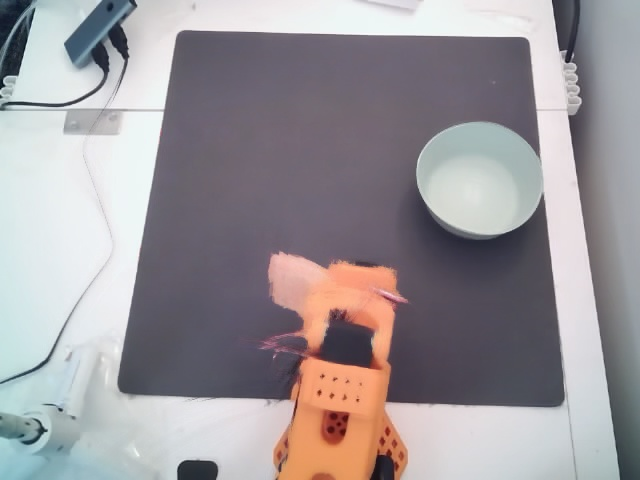
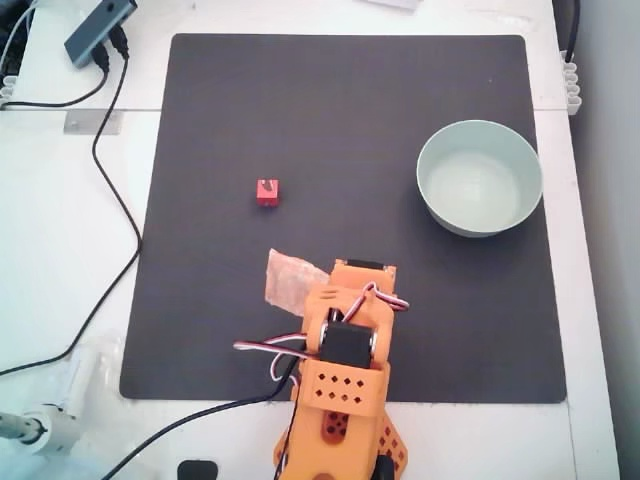
Camera check: arm in the dataset frame's pose, compared arm included
The reference is now one recorded frame (SIMCUBE_1O1B_VF episode 10, frame 0: the
start pose closest to the median) with its arm pose. Check camera moves the arm to
that pose (correcting the servos' remaining error, up to 3 times, to within 1.5 deg)
and compares the live image with the frame, arm included. Captures are still lined up
with the frame automatically (arm masked there, as it stands at Home).

diff --git a/web/app.js b/web/app.js
@@ -191,13 +191,24 @@ async function runAll(){
  finally{state.runAll=false;updateControls();}}
 $('#run-all').onclick=runAll;
 async function calibrateCamera(){
- // No robot motion: the live top image is compared with the recorded dataset's view.
- // Every capture is warped onto that view automatically when the camera has moved.
- const button=$('#calibrate-camera');button.disabled=true;
- try{const r=await api('/api/camera/check',{});
-  const text=r.moved_px==null?'Camera check: '+(r.note||'could not compare with the dataset view'):r.moved_px<=1?`Camera matches the dataset view (${r.moved_px.toFixed(1)} px)`:r.moved_px<=25?`Camera moved ${r.moved_px.toFixed(1)} px (turn ${r.turn_deg.toFixed(2)}°) from the dataset view · captures are lined up with it automatically`:`Camera moved ${r.moved_px.toFixed(0)} px from the dataset view · put it back where it was`;
-  $('#run-all-status').textContent=text;event(text);}
- catch(e){toast(e.message,true);}finally{updateControls();}}
+ // Move the arm to the pose of the dataset reference frame, then compare the live top
+ // image with that frame (arm included). Every capture is also lined up with the
+ // dataset view automatically when the camera has moved.
+ if(state.runAll||state.busy||state.robot.running)return;state.runAll=true;updateControls();
+ const say=t=>{$('#run-all-status').textContent=t;event(t);};
+ try{say('Camera check · moving the arm to the dataset frame pose · Esc or Stop motion halts it');
+  let r=null;
+  for(let attempt=0;attempt<4&&!r;attempt++){
+   await api('/api/camera/pose',{correct:attempt>0});const started=Date.now();
+   while(true){await new Promise(r=>setTimeout(r,500));if(!state.runAll)throw new Error('Stopped');const robot=(await api('/api/status')).robot;state.robot=robot;updateControls();
+    if(robot.error&&!robot.running)throw new Error('Move stopped: '+robot.error);if(!robot.running&&Date.now()-started>800)break;if(Date.now()-started>30000)throw new Error('The move took too long');}
+   await new Promise(r=>setTimeout(r,600));
+   say('Camera check · comparing the top camera with the dataset frame');
+   try{r=await api('/api/camera/check',{});}catch(e){if(!/from the dataset frame pose/.test(e.message)||attempt===3)throw e;say('Camera check · '+e.message+' · correcting the pose');}}
+  const text=r.moved_px==null?'Camera check: '+(r.note||'could not compare with the dataset frame'):r.moved_px<=1?`Camera matches dataset episode ${r.episode} (${r.moved_px.toFixed(1)} px, arm pose within ${r.pose_error_deg.toFixed(1)}°)`:r.moved_px<=25?`Camera moved ${r.moved_px.toFixed(1)} px (turn ${r.turn_deg.toFixed(2)}°) from dataset episode ${r.episode} · captures are lined up with it automatically`:`Camera moved ${r.moved_px.toFixed(0)} px from the dataset frame · put it back where it was`;
+  say(text);}
+ catch(e){if(e.message!=='Stopped')toast(e.message,true);$('#run-all-status').textContent='Camera check stopped: '+e.message;}
+ finally{state.runAll=false;updateControls();}}
 $('#calibrate-camera').onclick=calibrateCamera;
 async function poll(){if(state.restarting)return;try{const status=await api('/api/status');state.robot=status.robot;state.activeCapture=status.current;if(state.mode==='live'&&!state.capture)$('#real-label').textContent='LIVE CAMERA';if(state.robot.running&&state.mode==='live'&&state.capture?.id===state.robot.execution&&state.plan?.video){$('#real-label').textContent='LIVE ROBOT';video.playbackRate=1;$('#speed').value='1';if(Math.abs(video.currentTime-state.robot.elapsed)>.2)video.currentTime=state.robot.elapsed;if(video.paused&&playback.ready)video.play().catch(()=>{});playbackLabel('Live robot / sim clock');}$('#connection').className='status'+(state.robot.connected?' connected':'');$('#connection').innerHTML=`<i></i>${state.robot.running?'Executing motion':state.robot.connected?(state.robot.torque_enabled===false?'Torque off · arm free':state.robot.torque_enabled===true?'SO-101 connected':'Torque state unknown'):'Robot offline'}`;const job=status.job;if(job?.status==='running'||job?.status==='recording'){state.busy=true;$('#step-'+job.stage).classList.add('busy');}else if(job&&['complete','error'].includes(job.status)){const key=job.id+job.stage+job.status;if(state.lastJob!==key){state.lastJob=key;refreshRuns().catch(()=>{});state.busy=false;$$('.step.busy').forEach(e=>e.classList.remove('busy'));if(job.status==='error'){if(state.page==='new')toast(job.error,true);}else if(job.stage==='prepare'&&state.page==='new'){state.busy=false;event(job.plan.execution?.completed?'Home reached · camera view clear · capture a new scene':'Home stopped · '+(job.plan.execution?.error||'motion interrupted'));}else if(state.capture?.id===job.id){await showPlan(job.plan);event(job.stage==='execute'?`Hardware ${job.plan.execution?.completed?'completed':'stopped'} · synchronized real/sim recording ready`:job.stage==='plan'?`IK plan ready · ${job.plan.frames} actions`:`Physics result: ${pretty(job.plan.outcome)} · ${job.plan.transfer_checks_passed?'transfer checks passed':'transfer checks blocked execution'}`);}}}if(state.robot.error&&state.robot.error!==state.robot.lastError&&state.robot.error!==state.lastRobotError){state.lastRobotError=state.robot.error;toast(state.robot.error,true);}updateControls();}catch(e){$('#connection').innerHTML='<i></i>Server unavailable';state.robot={connected:false};updateControls();}setTimeout(poll,1000);}
 async function livePreview(){if(state.restarting)return;if(state.page==='new'&&state.mode==='live'&&(!state.capture||(state.capture.id===state.activeCapture&&(state.robot.running||(state.plan?.executed&&!state.plan?.execution?.video))))&&state.robot.connected&&!liveBusy){liveBusy=true;try{const view=state.view,id=state.capture?.id;const frame=await image('/api/live/'+view+'?t='+Date.now());if(state.page==='new'&&state.mode==='live'&&state.view===view&&state.capture?.id===id&&(!state.capture||(state.capture.id===state.activeCapture&&(state.robot.running||(state.plan?.executed&&!state.plan?.execution?.video))))){realImage=frame;draw();}}catch{}finally{liveBusy=false;}}setTimeout(livePreview,150);}

diff --git a/scripts/top_camera.py b/scripts/top_camera.py
@@ -3,11 +3,14 @@
 The top camera's pose was calibrated on the recorded dataset; every pixel-to-robot
 conversion uses that calibration. If the camera is bumped, the live image no longer
 lines up with it. Each live capture is therefore compared with the dataset's view of
-the static scene (median of episode start frames: no objects, no moving arm) using
-ORB features outside the mat and away from the arm, and a similarity transform
+the static scene (the first frame of a recorded episode) using ORB features outside
+the mat and away from the arm, and a similarity transform
 (shift, small turn, scale). If the view moved, the capture is warped back onto the
 dataset view before anything else reads it; the original is kept as top-raw.jpg.
 Views that cannot be matched, or moved too far to trust a warp, block planning.
+
+Check camera: the robot first moves to that dataset frame's arm pose, so the arm is
+part of the comparison too (same pose, same place in the image).
 """
 import json
 import time
@@ -19,6 +22,8 @@ from scipy.spatial.transform import Rotation
 
 ROOT = Path(__file__).resolve().parents[1]
 REFERENCE = ROOT / 'calibration/top-camera-dataset-reference.jpg'
+REFERENCE_POSE = ROOT / 'calibration/top-camera-dataset-reference.json'
+POSE_TOLERANCE_DEG = 1.5
 ALIGN_FROM_PX = 1.     # smaller shifts are left as they are (sub-pixel noise)
 MAX_WARP_PX = 25.      # larger moves: the camera must be put back
 MIN_INLIERS = 30
@@ -40,46 +45,55 @@ def project(camera, points):
     return np.c_[focal * p[:, 0] / p[:, 2] + 320, focal * p[:, 1] / p[:, 2] + 240]
 
 
-def reference(dataset=None, every=3):
-    """Dataset view of the static scene, built once from the recorded episodes."""
-    if REFERENCE.exists():
+def reference(dataset=None):
+    """The dataset frame the live camera is compared with: the first top-camera frame
+    of the episode whose starting arm pose is closest to the typical (median) start,
+    together with that arm pose. Built once from SIMCUBE_1O1B_VF."""
+    if REFERENCE.exists() and REFERENCE_POSE.exists():
         return cv2.imread(str(REFERENCE))
     from dataset_to_sim.dataset import DatasetIndex
     from episode0 import DATA
-    index = DatasetIndex(Path(dataset) if dataset else DATA); frames = []
-    for episode in range(0, index.episode_count, every):
-        part = index.episode(episode).video_slices['top']
-        capture = cv2.VideoCapture(str(part.path)); capture.set(cv2.CAP_PROP_POS_FRAMES, round(part.start_time * 30))
-        ok, image = capture.read(); capture.release()
-        if ok:
-            frames.append(image)
-    if len(frames) < 5:
+    index = DatasetIndex(Path(dataset) if dataset else DATA)
+    starts = np.array([index.episode(i).state_deg[0] for i in range(index.episode_count)])
+    episode = int(np.argmin(np.abs(starts - np.median(starts, axis=0)).max(axis=1)))
+    part = index.episode(episode).video_slices['top']
+    capture = cv2.VideoCapture(str(part.path)); capture.set(cv2.CAP_PROP_POS_FRAMES, round(part.start_time * 30))
+    ok, image = capture.read(); capture.release()
+    if not ok:
         raise ValueError('Could not read the recorded dataset to build the camera reference')
-    image = np.median(np.stack(frames), axis=0).astype(np.uint8)
     REFERENCE.parent.mkdir(parents=True, exist_ok=True); cv2.imwrite(str(REFERENCE), image)
+    REFERENCE_POSE.write_text(json.dumps({'dataset': str(index.root) if hasattr(index, 'root') else str(DATA), 'episode': episode, 'frame': 0,
+                                          'state_native': starts[episode].tolist()}, indent=2))
     return image
 
 
-def _static_mask(config, image):
-    """Pixels of the fixed scene: outside the mat (objects move there) and not the arm."""
+def reference_pose():
+    reference()
+    return json.loads(REFERENCE_POSE.read_text())
+
+
+def _static_mask(config, image, arm=False):
+    """Pixels of the fixed scene: outside the mat (objects move there) and, unless the
+    arm stands in the dataset frame's pose (`arm`), not the arm."""
     camera = config['base_calibration']['cameras']['top']; mat = config['base_calibration']['world']['mat']
     half = np.asarray(mat['size'][:2]) / 2 + .03; c = np.asarray(mat['position'][:2])
     corners = project(camera, [[c[0] + sx * half[0], c[1] + sy * half[1], 0.] for sx, sy in ((-1, -1), (1, -1), (1, 1), (-1, 1))])
     mask = np.full(image.shape[:2], 255, np.uint8)
     cv2.fillPoly(mask, [corners.astype(np.int32)], 0)
-    orange = cv2.inRange(cv2.cvtColor(image, cv2.COLOR_BGR2HSV), (5, 120, 120), (22, 255, 255))
-    mask[cv2.dilate(orange, np.ones((25, 25), np.uint8)) > 0] = 0
+    if not arm:
+        orange = cv2.inRange(cv2.cvtColor(image, cv2.COLOR_BGR2HSV), (5, 120, 120), (22, 255, 255))
+        mask[cv2.dilate(orange, np.ones((25, 25), np.uint8)) > 0] = 0
     return mask
 
 
-def measure(image, config=None):
+def measure(image, config=None, arm=False):
     """Similarity transform from the dataset view to `image`, and how far points on
     the mat moved (pixels)."""
     config = config or base_config()
     ref = reference()
     orb = cv2.ORB_create(3000)
-    k1, d1 = orb.detectAndCompute(cv2.cvtColor(ref, cv2.COLOR_BGR2GRAY), _static_mask(config, ref))
-    k2, d2 = orb.detectAndCompute(cv2.cvtColor(image, cv2.COLOR_BGR2GRAY), _static_mask(config, image))
+    k1, d1 = orb.detectAndCompute(cv2.cvtColor(ref, cv2.COLOR_BGR2GRAY), _static_mask(config, ref, arm))
+    k2, d2 = orb.detectAndCompute(cv2.cvtColor(image, cv2.COLOR_BGR2GRAY), _static_mask(config, image, arm))
     if d1 is None or d2 is None:
         return None, {'ok': False, 'moved_px': None, 'note': 'Too little texture around the mat to compare with the dataset view'}
     pairs = cv2.BFMatcher(cv2.NORM_HAMMING).knnMatch(d1, d2, k=2)

diff --git a/scripts/studio_server.py b/scripts/studio_server.py
@@ -745,15 +745,47 @@ def select_object(identifier:str,body:dict):
         return selection
 
 
+@app.post('/api/camera/pose')
+def camera_pose(request:Request,body:dict|None=None):
+    """Move the arm straight to the arm pose of the dataset reference frame (a rest pose
+    next to Home), so the camera check compares like with like."""
+    global current
+    from top_camera import reference_pose
+    if not request.headers.get('x-studio-client'):raise ValueError('Moving the arm requires an owning control page')
+    with operation_lock:
+        if restarting:raise ValueError('Server restarting')
+        if dataset_build_busy():raise ValueError('Finish or cancel data generation before moving the robot')
+        if current and jobs.get(current,{}).get('status')=='running':raise ValueError('Wait for the current operation')
+        if hardware.call('status').get('running'):raise ValueError('Robot is executing')
+        target=np.asarray(reference_pose()['state_native'],float)
+        command=target.copy()
+        if body and body.get('correct') and camera_pose.last is not None:
+            # The servos stop a few degrees short of a rest pose: command past it by the
+            # remaining error (bounded), measured after the previous move.
+            measured=np.asarray(hardware.call('status')['positions'],float)
+            command=camera_pose.last.copy();command[:5]+=np.clip(target[:5]-measured[:5],-4,4)
+            command[:5]=np.clip(command[:5],target[:5]-10,target[:5]+10)
+        camera_pose.last=command
+        current=None
+        with stop_lock:
+            if restarting:raise ValueError('Server restarting')
+            return hardware.call('go_home',target=command.tolist())|{'target':target.tolist(),'command':command.tolist()}
+camera_pose.last=None
+
+
 @app.post('/api/camera/check')
 def camera_check_now():
-    """Compare the live top camera with the recorded dataset's view, without moving."""
-    from top_camera import measure
-    if hardware.call('status').get('running'):raise ValueError('Stop the robot before checking the camera')
-    images=hardware.call('snapshot')['images']
-    image=cv2.imdecode(np.frombuffer(base64.b64decode(images['top']),np.uint8),cv2.IMREAD_COLOR)
-    _,result=measure(image)
-    return result
+    """With the arm in the dataset frame's pose: compare the live top image with that
+    frame, arm included. No motion here."""
+    from top_camera import measure,reference_pose,POSE_TOLERANCE_DEG
+    if hardware.call('status').get('running'):raise ValueError('Wait for the arm to stop')
+    snapshot=hardware.call('snapshot');pose=reference_pose()
+    error=np.abs(np.asarray(snapshot['initial_native'][:5])-np.asarray(pose['state_native'][:5]))
+    if np.max(error)>POSE_TOLERANCE_DEG:raise ValueError(f'The arm is {np.max(error):.1f}° from the dataset frame pose; move it there first')
+    image=cv2.imdecode(np.frombuffer(base64.b64decode(snapshot['images']['top']),np.uint8),cv2.IMREAD_COLOR)
+    _,result=measure(image,arm=True)
+    folder=WORK/'camera-check';folder.mkdir(exist_ok=True);cv2.imwrite(str(folder/'latest.jpg'),image)
+    return result|{'episode':pose['episode'],'pose_error_deg':float(np.max(error))}
 
 
 def wrist_recheck(folder,report,fresh):
